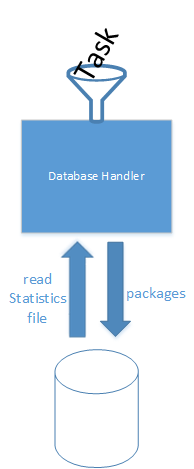
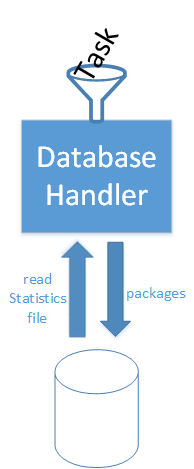
Graphics updated.

Changed region(s): [[0.1856, 0.2985, 0.8041, 0.4478]]

diff --git a/docs/final_presentation/database.tex b/docs/final_presentation/database.tex
@@ -50,7 +50,7 @@
 		\begin{minipage}[]{.45\textwidth}%
 		\begin{figure}[h]
 		\flushright  % rechtsbuendig
-		\vspace{-\ht\strutbox}\includegraphics[width=\textwidth]{images/Task/data.png}
+		\vspace{-\ht\strutbox}\includegraphics[width=\textwidth]{images/data.png}
 		\end{figure}
 		\end{minipage}
 	\end{frame}
@@ -70,29 +70,23 @@
 	\end{frame}
 	
 	\begin{frame}{Database Server}
-	\includegraphics[width=1.0\textwidth]{images/Zeichnung6.png}
+	\includegraphics[width=1.0\textwidth]{images/databaseserver.png}
 	\end{frame}
 	
 	\begin{frame}{Connection to Data Mining}
 	\begin{center}
-	\includegraphics[height=0.64\textwidth, width=0.6\textwidth]{images/datamining_flow.png}
-	\end{center}
-	\end{frame}
-	
-	\begin{frame}{Connection to Data Mining}
-		\begin{center}
 	\includegraphics[height=0.64\textwidth, width=0.6\textwidth]{images/datamining_flow0.png}
 	\end{center}
 	\end{frame}
 	
 	\begin{frame}{Connection to Data Mining}
 		\begin{center}
-	\includegraphics[height=0.64\textwidth, width=0.6\textwidth]{images/datamining_flow2.png}
+	\includegraphics[height=0.64\textwidth, width=0.6\textwidth]{images/datamining_flow1.png}
 	\end{center}
 	\end{frame}
 	
 	\begin{frame}{Connection to Data Mining}
 		\begin{center}
-	\includegraphics[height=0.64\textwidth, width=0.6\textwidth]{images/datamining_flow3.png}
+	\includegraphics[height=0.64\textwidth, width=0.6\textwidth]{images/datamining_flow2.png}
 	\end{center}
 	\end{frame}

diff --git a/docs/final_presentation/final_presentation.tex b/docs/final_presentation/final_presentation.tex
@@ -64,6 +64,7 @@
 \usepackage[export]{adjustbox}
 \usepackage{tikz}
 \usetikzlibrary{arrows.meta}
+\usetikzlibrary{automata}
 \usepackage{marvosym}
 \usepackage[ngerman]{babel}
 \usetikzlibrary{shapes}
